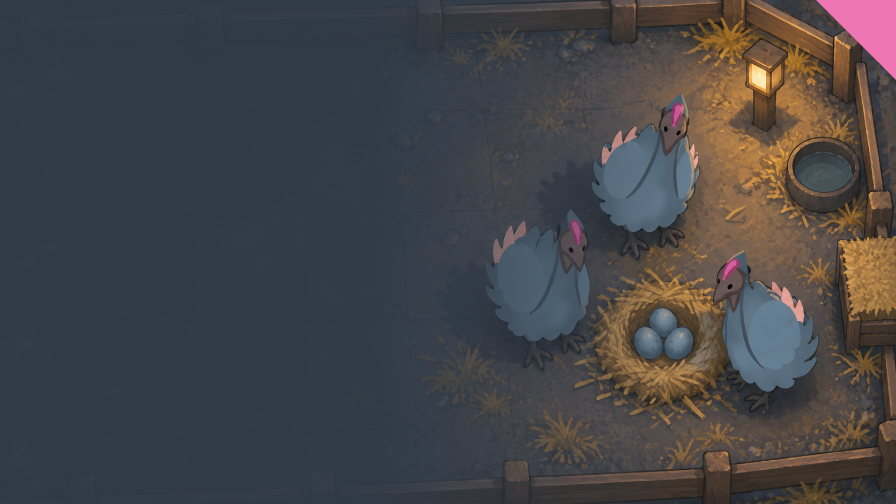
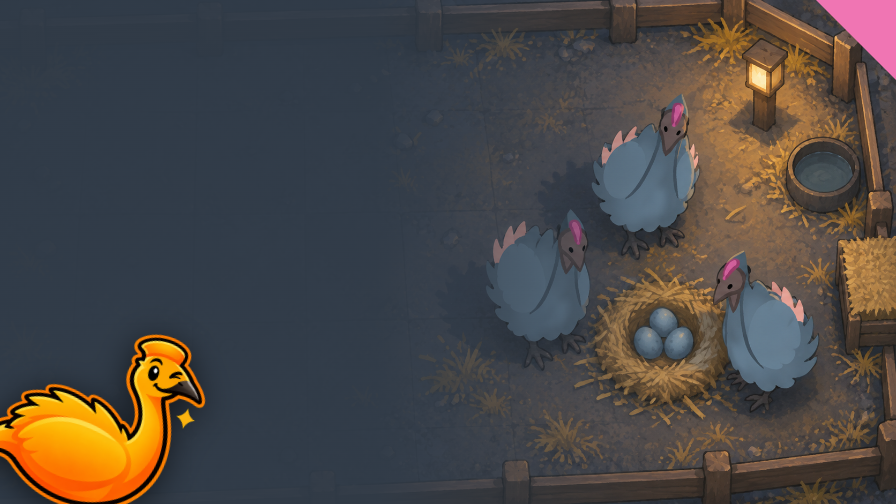
Composite the cutout ModIcon on the Preview and start the gallery at 00

Changed region(s): [[0.0, 0.6548, 0.25, 1.0]]

diff --git a/Art/preview.html b/Art/preview.html
@@ -6,6 +6,7 @@
  h1{margin:0;font-size:46px;font-weight:600;line-height:1.1;letter-spacing:0}h1 span{font-size:.65em;color:#ADD1E7}
  .rule{width:58px;height:3px;background:#F075B3;margin-top:20px;margin-bottom:16px}
  p{margin:0;width:430px;font-size:21px;font-weight:400;line-height:1.45;letter-spacing:0}
+ .icon{position:absolute;left:-30px;bottom:-30px;width:240px;height:240px;transform:rotate(15deg);filter:drop-shadow(0 6px 16px rgba(0,0,0,.6))}
  .badge{position:absolute;right:0;top:0;width:80px;height:80px;background:#F075B3;clip-path:polygon(0 0,100% 0,100% 100%)}
  .version{position:absolute;left:869px;top:27px;transform:translate(-50%,-50%) rotate(45deg);font-size:26px;font-weight:700;line-height:1;color:#17120E}
- </style><div class="veil"></div><div class="copy"><h1>Moa <span>Renew</span></h1><div class="rule"></div><p>Flightless birds from Reach.<br>Raise a flock for meat and eggs.</p></div><div class="badge"></div><div class="version">1.6</div>
+ </style><div class="veil"></div><div class="copy"><h1>Moa <span>Renew</span></h1><div class="rule"></div><p>Flightless birds from Reach.<br>Raise a flock for meat and eggs.</p></div><div class="badge"></div><div class="version">1.6</div><img class="icon" src="ModIcon-cutout.png" alt="">

diff --git a/STATUS.md b/STATUS.md
@@ -340,3 +340,14 @@ justified** (`Tests/Pickle/`, nine features, 13 local steps, `Check-Steps.ps1` g
 five passes declared in `TESTING.md` with the reasons for what is not applicable or not played. Replaces `workflow_stage: preTest`.
 Nothing has run in game: that is `done → tested` (all five passes, `@review` capture opened, no `@wip`, every `@requires` scenario
 run, EN and FR, no manual test left; breeding, real unfertilized laying, incubation and butchering are listed as not played).
+
+## Preview with the icon, gallery 00 — 2026-09-29 (owner's new rules, PUBLISHING.md)
+
+- `Mod/About/Preview.png` re-rendered (896 x 504, 540,304 bytes): the ModIcon cutout sits bottom-left, `+15deg`, on the veil's empty
+  corner, no overlap with the title, summary or badge. Cutout: `Art/cutout-icon.cjs` (flood fill from the border, threshold 40, the
+  outline never touches the frame), output `Art/ModIcon-cutout.png`; composition in `Art/render-preview.cjs`. Contrast minima unchanged
+  (title 7.68, suffix 6.85, summary 7.88, badge 7.00, `Art/preview-validation.json`). Image opened and looked at: no speckle left,
+  clean edge. Icon file itself untouched (owner-generated).
+- `Art/gallery/00-Preview.png` is a byte copy of the Preview (`cmp` identical). Captures follow as `01-`, `02-`: only the `@review`
+  capture of feature 03 once P1 has played and it has been read. Copy again whenever the Preview is regenerated.
+- `Art/Preview.ico` regenerated from it (ffmpeg, transparent margins). Not verified in the Explorer.
